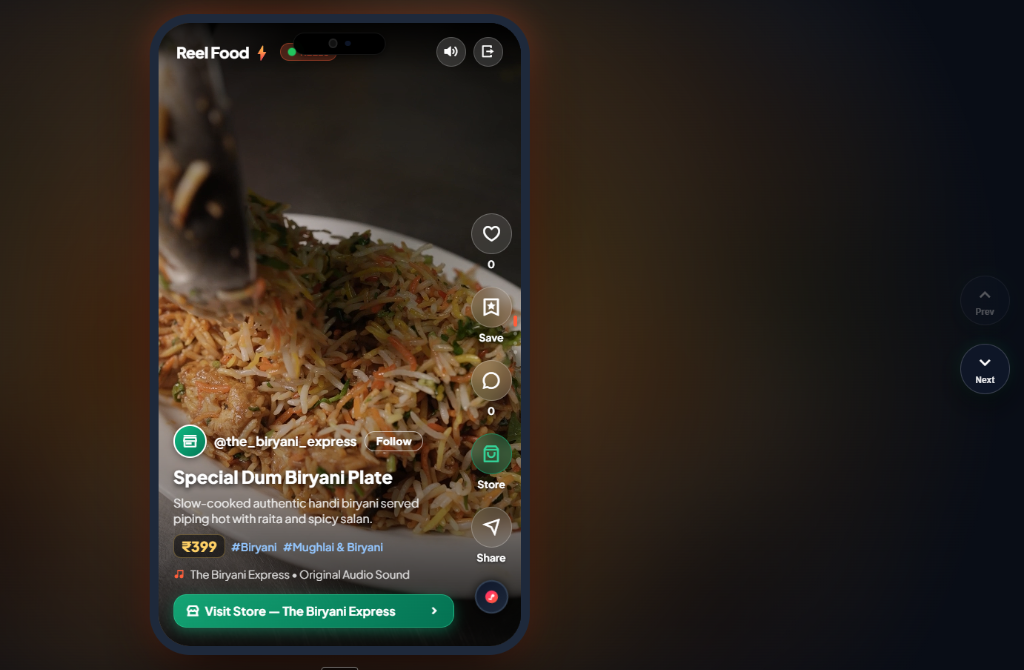
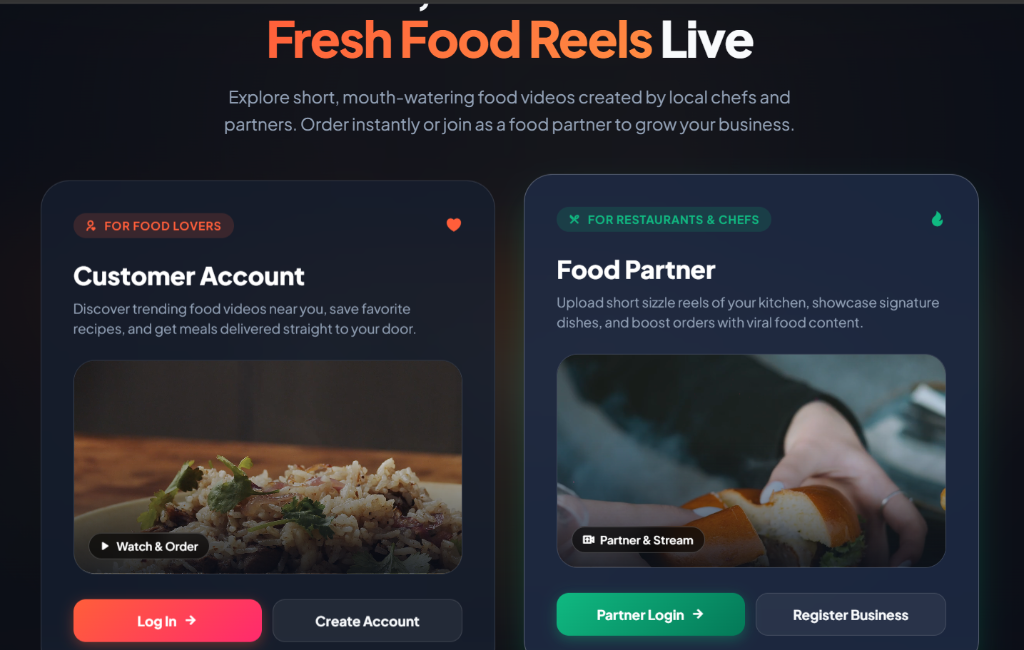
feat: add genuine project screenshots for Yes Bank & Reel Food, update live project URLs, and enable modal gallery switcher

diff --git a/components/sections/Projects.tsx b/components/sections/Projects.tsx
@@ -31,10 +31,16 @@ const FILTER_CATEGORIES: { id: ProjectCategory; label: string }[] = [
 export function Projects() {
   const [activeFilter, setActiveFilter] = useState<ProjectCategory>("All");
   const [selectedProject, setSelectedProject] = useState<ProjectItem | null>(null);
+  const [activeModalImage, setActiveModalImage] = useState<string | null>(null);
   const [currentIndex, setCurrentIndex] = useState(0);
   const [isPausedByHover, setIsPausedByHover] = useState(false);
   const [cardStepWidth, setCardStepWidth] = useState(484); // card width + gap
   const trackContainerRef = useRef<HTMLDivElement>(null);
+
+  const openProjectModal = useCallback((project: ProjectItem) => {
+    setSelectedProject(project);
+    setActiveModalImage(project.image);
+  }, []);
 
   // Close modal with Escape key
   const handleKeyDown = useCallback((e: KeyboardEvent) => {
@@ -129,10 +135,6 @@ export function Projects() {
 
     return () => clearInterval(timer);
   }, [isPausedByHover, filteredProjects.length, handleNext]);
-
-  const openProjectModal = (project: ProjectItem) => {
-    setSelectedProject(project);
-  };
 
   const activeDisplayIndex =
     filteredProjects.length > 0
@@ -476,19 +478,61 @@ export function Projects() {
               </p>
 
               {/* Full Image Banner */}
-              <div className="relative w-full aspect-[16/10] overflow-hidden rounded-2xl border border-[rgba(175,221,229,0.15)] bg-[#001b1e] mb-6 flex items-center justify-center">
+              <div className="relative w-full aspect-[16/10] overflow-hidden rounded-2xl border border-[rgba(175,221,229,0.15)] bg-[#001b1e] mb-3 flex items-center justify-center">
                 <Image
-                  src={selectedProject.image}
+                  src={activeModalImage || selectedProject.image}
                   alt={`${selectedProject.title} Interface & Architecture`}
                   fill
                   sizes="(max-width: 768px) 100vw, 768px"
                   className={cn(
-                    selectedProject.imageFit === "contain"
-                      ? "object-contain p-4"
+                    (activeModalImage || selectedProject.image).includes("mobile")
+                      ? "object-contain p-3"
                       : "object-cover object-top"
                   )}
                 />
               </div>
+
+              {/* Gallery Image Switcher (for projects with multiple views) */}
+              {selectedProject.gallery && selectedProject.gallery.length > 1 && (
+                <div className="flex flex-wrap items-center gap-2 mb-6">
+                  {selectedProject.gallery.map((imgSrc, gIdx) => {
+                    const currentActive = activeModalImage || selectedProject.image;
+                    const isSelected = currentActive === imgSrc;
+                    const isMobileImg = imgSrc.includes("mobile");
+                    const label = isMobileImg
+                      ? "Mobile Reels Feed View"
+                      : imgSrc.includes("modeling")
+                      ? "Decision Tree Predictor"
+                      : imgSrc.includes("stats") || imgSrc.includes("yes-bank.png")
+                      ? "ML Analytics & Boxplots"
+                      : "Web Portal Platform";
+
+                    return (
+                      <button
+                        key={gIdx}
+                        type="button"
+                        onClick={() => setActiveModalImage(imgSrc)}
+                        className={cn(
+                          "px-3 py-1.5 rounded-lg text-xs font-mono transition-all flex items-center gap-2 border",
+                          isSelected
+                            ? "bg-primary/20 border-primary text-white font-semibold shadow-glow"
+                            : "bg-white/[0.03] border-white/10 text-muted hover:text-white hover:border-white/20"
+                        )}
+                      >
+                        <span
+                          className="w-2 h-2 rounded-full transition-colors"
+                          style={{
+                            backgroundColor: isSelected
+                              ? selectedProject.accentColor
+                              : "rgba(255,255,255,0.3)",
+                          }}
+                        />
+                        <span>{label}</span>
+                      </button>
+                    );
+                  })}
+                </div>
+              )}
 
               {/* Architectural Overview */}
               <div className="mb-6">

diff --git a/data/projects.ts b/data/projects.ts
@@ -14,6 +14,7 @@ export interface ProjectItem {
   techStack: string[];
   highlights?: string[];
   image: string;
+  gallery?: string[];
   imageFit?: "cover" | "contain";
   links: {
     live?: string;
@@ -55,7 +56,7 @@ export const projectsData: ProjectItem[] = [
     image: "/projects/proresume-ai.png",
     imageFit: "cover",
     links: {
-      live: "https://github.com/SanketManav9620/Proresume-AI",
+      live: "https://proresume-ai-wine.vercel.app/",
       github: "https://github.com/SanketManav9620/Proresume-AI",
     },
     featured: true,
@@ -91,9 +92,10 @@ export const projectsData: ProjectItem[] = [
       "Tailwind CSS",
     ],
     image: "/projects/reel-food.png",
-    imageFit: "contain",
+    gallery: ["/projects/reel-food.png", "/projects/reel-food-mobile.png"],
+    imageFit: "cover",
     links: {
-      live: "https://github.com/SanketManav9620/Reel-style-foodorderingApp",
+      live: "https://reel-style-foodordering-app.vercel.app/",
       github: "https://github.com/SanketManav9620/Reel-style-foodorderingApp",
     },
     featured: true,
@@ -131,7 +133,7 @@ export const projectsData: ProjectItem[] = [
     image: "/projects/nk-enterprises.png",
     imageFit: "cover",
     links: {
-      live: "https://github.com/SanketManav9620/NK-Enterprises",
+      live: "https://nkenterprises.store",
       github: "https://github.com/SanketManav9620/NK-Enterprises",
     },
     featured: true,
@@ -170,7 +172,7 @@ export const projectsData: ProjectItem[] = [
     image: "/projects/outskill.png",
     imageFit: "cover",
     links: {
-      live: "https://github.com/SanketManav9620/Outskill-app",
+      live: "https://outskill-app-frontend.vercel.app/",
       github: "https://github.com/SanketManav9620/Outskill-app",
     },
     featured: true,
@@ -204,6 +206,7 @@ export const projectsData: ProjectItem[] = [
       "Docker",
     ],
     image: "/projects/yes-bank.png",
+    gallery: ["/projects/yes-bank.png", "/projects/yes-bank-modeling.png"],
     imageFit: "cover",
     links: {
       live: "https://github.com/SanketManav9620/YESBANK_project",
